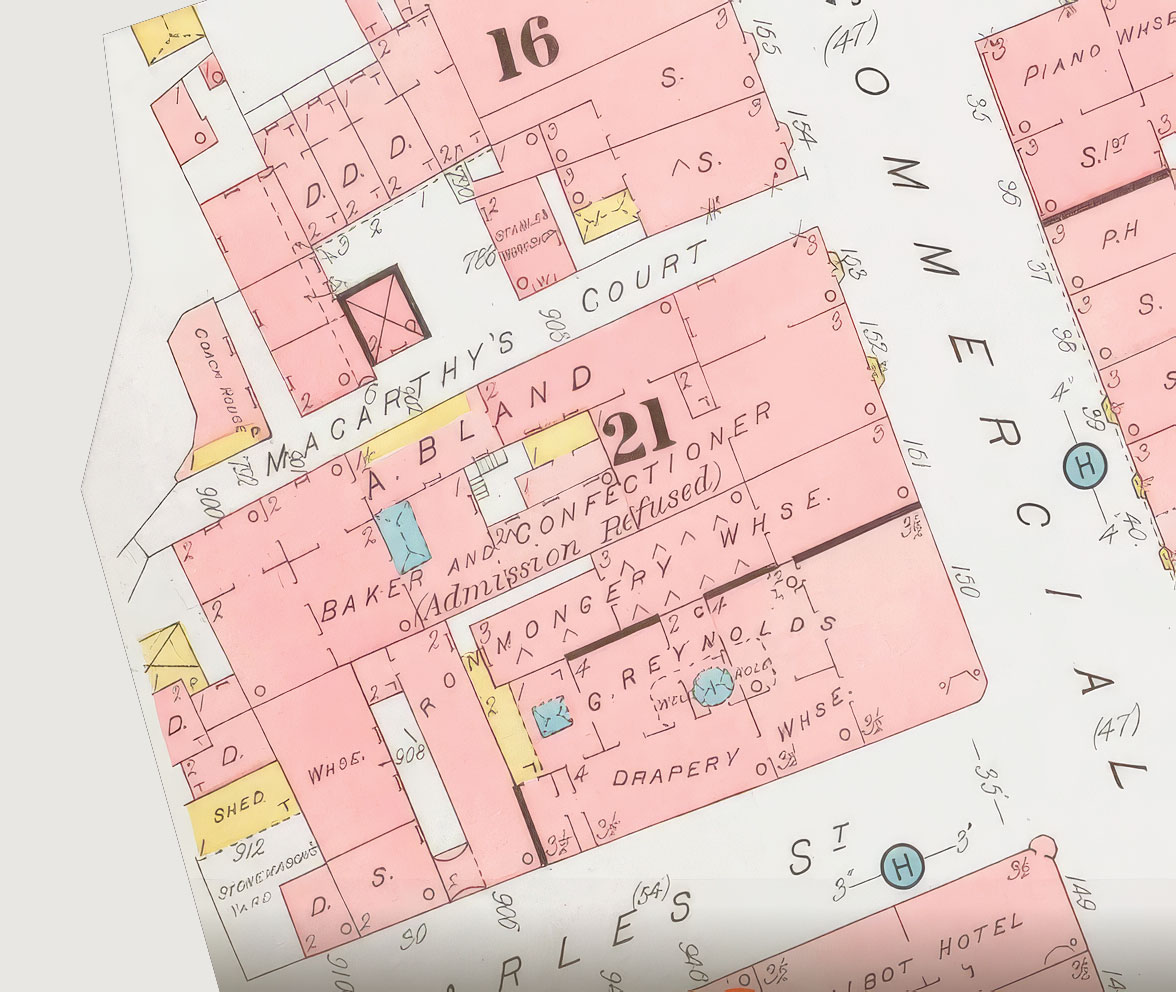
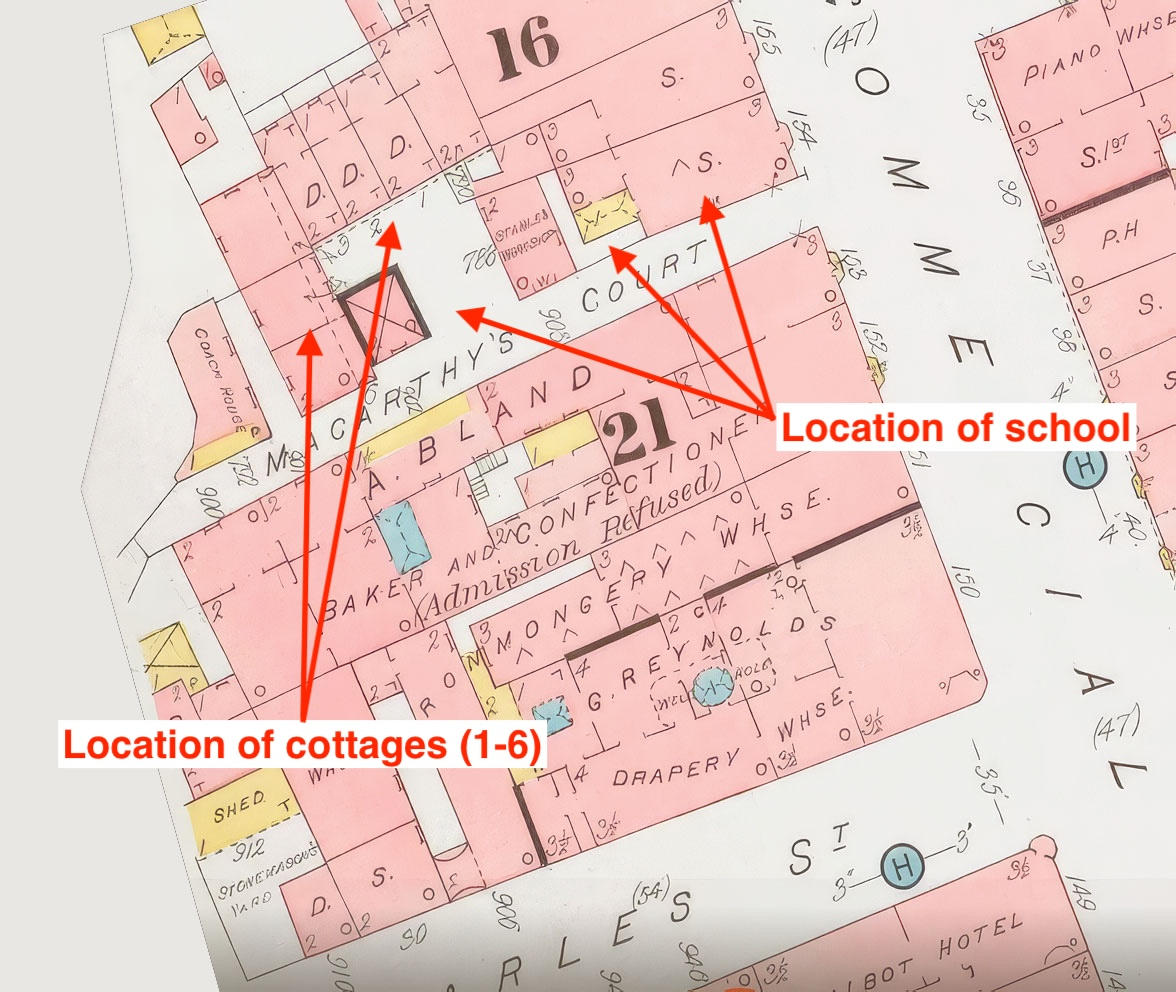
Clarify North vs South layout, add Spatial Key diagram, and update 1888 Goad plan

diff --git a/index.html b/index.html
@@ -403,9 +403,84 @@
           </div>
 
           <figcaption class="mt-3 font-sans text-xs text-ink-muted leading-relaxed">
-            <strong class="text-ink font-semibold">Today’s Entrance:</strong> The width of McCarthy's Court today is the same but it would have opened into a courtyard on the right and towards the back would have led to open gardens.
+            <strong class="text-ink font-semibold">Today’s Entrance:</strong> The width of McCarthy's Court today is the same, opening between No. 153 on the south (left) and No. 154 on the north (right). McCarthy’s academy occupied the northern frontage (Nos. 154–155), opening into a courtyard on the right with the cottages and gardens lying behind it—not the No. 153 property on the left.
           </figcaption>
         </figure>
+
+        <!-- Spatial Key: North vs. South Side of McCarthy's Court -->
+        <div class="my-8 p-4 sm:p-5 bg-[#f7f3ea] border border-parchment-300 rounded-lg shadow-sm font-sans">
+          <div class="mb-3 border-b border-parchment-300 pb-2 flex flex-col sm:flex-row sm:items-center justify-between gap-1">
+            <h3 class="font-display text-xl font-bold text-ink">Spatial Key: Which Side Was Which?</h3>
+            <span class="text-[11px] text-ink-muted uppercase tracking-wider">West Side of Commercial Street • Looking West</span>
+          </div>
+
+          <div class="grid grid-cols-1 sm:grid-cols-[52px_1fr_52px] gap-2 text-xs items-stretch">
+            <!-- Left Vertical Bar: Woodbine Cottage (Head of Court / West) -->
+            <div class="rounded border border-antiqueGold/60 bg-parchment-100 px-3 py-2 sm:p-2 flex flex-col sm:items-center sm:justify-center text-center">
+              <div class="sm:[writing-mode:vertical-rl] sm:rotate-180 flex sm:flex-row items-center justify-center gap-1.5">
+                <span class="font-header text-[10px] font-bold uppercase tracking-widest text-antiqueGold-dark">Woodbine Cottage</span>
+                <span class="text-[10px] text-ink-muted font-normal">(Head of Court • West)</span>
+              </div>
+            </div>
+
+            <!-- Center: North Side, Court Passage, South Side -->
+            <div class="space-y-2 min-w-0">
+              <!-- North Side (McCarthy's Plot) -->
+              <div class="rounded border-2 border-vermilion/40 bg-white p-3">
+                <div class="flex flex-wrap items-center justify-between gap-1 mb-2">
+                  <span class="font-header text-[10px] uppercase tracking-widest text-vermilion font-bold">North Side (Right Entering)</span>
+                  <span class="text-[10px] text-ink-muted font-medium">McCarthy’s Leasehold Plot</span>
+                </div>
+                <div class="grid grid-cols-1 sm:grid-cols-2 gap-2">
+                  <div class="rounded bg-parchment-100 border border-parchment-300 p-2.5">
+                    <span class="block text-[10px] font-bold uppercase text-vermilion">Rear Courtyard</span>
+                    <span class="block font-semibold text-ink mt-0.5">Schoolroom &amp; Rear Cottages</span>
+                    <span class="block text-[11px] text-ink-muted mt-0.5 leading-snug">40-ft hall (1811) &amp; the cottages enumerated in the 1841 Census.</span>
+                  </div>
+                  <div class="rounded bg-vermilion/5 border border-vermilion/30 p-2.5">
+                    <span class="block text-[10px] font-bold uppercase text-vermilion">Street Frontage</span>
+                    <span class="block font-semibold text-ink mt-0.5">Nos. 154–155 Commercial St</span>
+                    <span class="block text-[11px] text-ink-muted mt-0.5 leading-snug">McCarthy’s Academy (1811), rebuilt 1836–38 for Williams &amp; Waters. (Nos. 156–158 Chapel just north.)</span>
+                  </div>
+                </div>
+              </div>
+
+              <!-- The Lane -->
+              <div class="rounded border border-dashed border-antiqueGold bg-parchment-200/70 px-3 py-2 flex items-center justify-between text-[11px]">
+                <span class="font-header font-bold uppercase tracking-wider text-ink">← McCarthy’s Court (Cobbled Passage)</span>
+                <span class="text-ink-muted italic hidden md:inline">Surviving entrance between Nos. 153 &amp; 154</span>
+              </div>
+
+              <!-- South Side (Brewer / Bland's Plot) -->
+              <div class="rounded border border-parchment-300 bg-parchment-50 p-3">
+                <div class="flex flex-wrap items-center justify-between gap-1 mb-2">
+                  <span class="font-header text-[10px] uppercase tracking-widest text-ink-muted font-bold">South Side (Left Entering)</span>
+                  <span class="text-[10px] text-ink-muted font-medium">Separate Adjoining Property</span>
+                </div>
+                <div class="grid grid-cols-1 sm:grid-cols-12 gap-2">
+                  <div class="sm:col-span-7 rounded bg-white border border-parchment-300 p-2.5">
+                    <span class="block text-[10px] font-bold uppercase text-ink-muted">Rear of Nos. 152–153</span>
+                    <span class="block font-semibold text-ink mt-0.5">Alfred Bland’s Bakery (“Admission Refused”, 1888)</span>
+                    <span class="block text-[11px] text-ink-muted mt-0.5 leading-snug">The surviving bricked-up windows &amp; doors on the south wall belong to this side—not McCarthy’s cottages.</span>
+                  </div>
+                  <div class="sm:col-span-5 rounded bg-white border border-parchment-300 p-2.5">
+                    <span class="block text-[10px] font-bold uppercase text-ink-muted">Street Frontage</span>
+                    <span class="block font-semibold text-ink mt-0.5">No. 153 Commercial St</span>
+                    <span class="block text-[11px] text-ink-muted mt-0.5 leading-snug">Surgeon Jehoiada Brewer (1841); later associated with Bland’s.</span>
+                  </div>
+                </div>
+              </div>
+            </div>
+
+            <!-- Right Vertical Bar: Commercial Street (East) -->
+            <div class="rounded border border-parchment-400 bg-parchment-200/80 px-3 py-2 sm:p-2 flex flex-col sm:items-center sm:justify-center text-center">
+              <div class="sm:[writing-mode:vertical-rl] flex sm:flex-row items-center justify-center gap-1.5">
+                <span class="font-header text-[10px] font-bold uppercase tracking-widest text-ink">Commercial Street</span>
+                <span class="text-[10px] text-ink-muted font-normal">(East)</span>
+              </div>
+            </div>
+          </div>
+        </div>
 
         <div class="sidenote-wrapper">
           <p>
@@ -621,7 +696,7 @@
         </div>
 
         <p>
-          To accommodate the academy, the partners took a building lease directly from Sir Charles Morgan and the Tredegar Wharf Company for the roadside plot immediately south of the 1808 Wesleyan Chapel. Here they oversaw the construction of a substantial, purpose-built complex, expending a staggering <strong>£4,000</strong> on the buildings, schoolrooms, domestic quarters, and grounds over the next decade.
+          To accommodate the academy, the partners took a building lease directly from Sir Charles Morgan and the Tredegar Wharf Company for the roadside plot immediately south of the 1808 Wesleyan Chapel (corresponding to Nos. 154–155 Commercial Street, on the north side of McCarthy’s Court). Here they oversaw the construction of a substantial, purpose-built complex, expending a staggering <strong>£4,000</strong> on the buildings, schoolrooms, domestic quarters, and grounds over the next decade.
         </p>
 
         <!-- Aside: Who Was Callaghan McCarthy? -->
@@ -1405,10 +1480,10 @@
             <span class="font-header text-[11px] uppercase tracking-widest text-vermilion font-bold">1841 Enumerator Walk Order</span>
             <span class="font-sans text-[10px] text-ink-muted uppercase tracking-wider">HO 107/751/19</span>
           </div>
-          <pre class="font-mono text-xs sm:text-sm text-ink leading-relaxed whitespace-pre"><code>[Commercial Street Frontage]
+          <pre class="font-mono text-xs sm:text-sm text-ink leading-relaxed whitespace-pre"><code>[Commercial Street Frontage — South Side]
   No. 153: Jehoiada Brewer (Surgeon) &amp; household
-[Turns down open passage into the court]
-  McCarthy's Court:
+[Turns west down open passage into the court]
+  McCarthy's Court (rear of Nos. 154–155):
     - Charles Watkins (Tailor) &amp; family
     - Evan John (Labourer)
     - Charles Smith (Merchant)
@@ -1419,7 +1494,7 @@
     - Daniel Hopkins (Labourer)
     - Charles Williams (Mason) &amp; family
     - Benjamin Horton (Sawyer) &amp; family
-[Returns to Commercial Street Frontage]
+[Returns to Commercial Street Frontage — North Side]
   No. 154: Herbert Williams (Chemist &amp; Druggist)
   No. 155: Thomas Morgan Llewellin (Solicitor)
   Nos. 156–158: Wesleyan Methodist Chapel</code></pre>
@@ -1629,7 +1704,6 @@
         <figure class="my-8 sm:my-10 p-4 sm:p-5 bg-[#f7f3ea] border border-parchment-300 rounded-lg shadow-sm">
           <div class="mb-3 border-b border-parchment-300 pb-2 flex items-center justify-between">
             <h3 class="font-display text-xl sm:text-2xl font-bold text-ink">McCarthy’s Court Today: The Surviving Lane</h3>
-            <span class="font-sans text-[11px] text-ink-muted uppercase tracking-wider hidden sm:inline">Present-Day Views</span>
           </div>
 
           <div class="grid grid-cols-1 sm:grid-cols-3 gap-3">
@@ -1654,12 +1728,12 @@
                 <img src="images/mccarthys-court-today-04.jpg" alt="Truncated end of McCarthy's Court today" class="w-full h-48 object-cover group-hover:scale-[1.02] transition-transform duration-200" onerror="handleMissingImage(this, 'images/mccarthys-court-today-04.jpg')">
               </div>
               <span class="mt-2 font-sans text-[11px] leading-tight font-semibold text-ink">View 3</span>
-              <span class="mt-0.5 font-sans text-[11px] leading-snug text-ink-muted">Bricked up windows and doors on the south side of the alley possibly related to when Blands was there.</span>
+              <span class="mt-0.5 font-sans text-[11px] leading-snug text-ink-muted">Bricked-up windows and doors on the south side of the alley (the No. 152–153 / Bland’s side—not McCarthy’s cottages).</span>
             </div>
           </div>
 
           <figcaption class="mt-4 pt-3 border-t border-parchment-200 font-sans text-xs text-ink-muted leading-relaxed">
-            <strong class="text-ink font-semibold">Surviving Streetscape:</strong> The buildings have the original alleyway have long been removed and School Lane at the rear of the court has paved over the gardens but there are still some remnants of the original road in the form of the cobblestones and the bricked-up building on the left is possibly related to Bland's bakery.
+            <strong class="text-ink font-semibold">Surviving Streetscape:</strong> The buildings along the original alleyway have long been removed and School Lane at the rear of the court has paved over the gardens, though some of the original cobblestones remain. Importantly, the surviving bricked-up wall on the south (left) side belongs to the No. 152–153 / Bland’s bakery side of the lane—not McCarthy’s academy (which stood on the north frontage at Nos. 154–155) or the cottages, which stood further back behind it.
           </figcaption>
         </figure>
 
